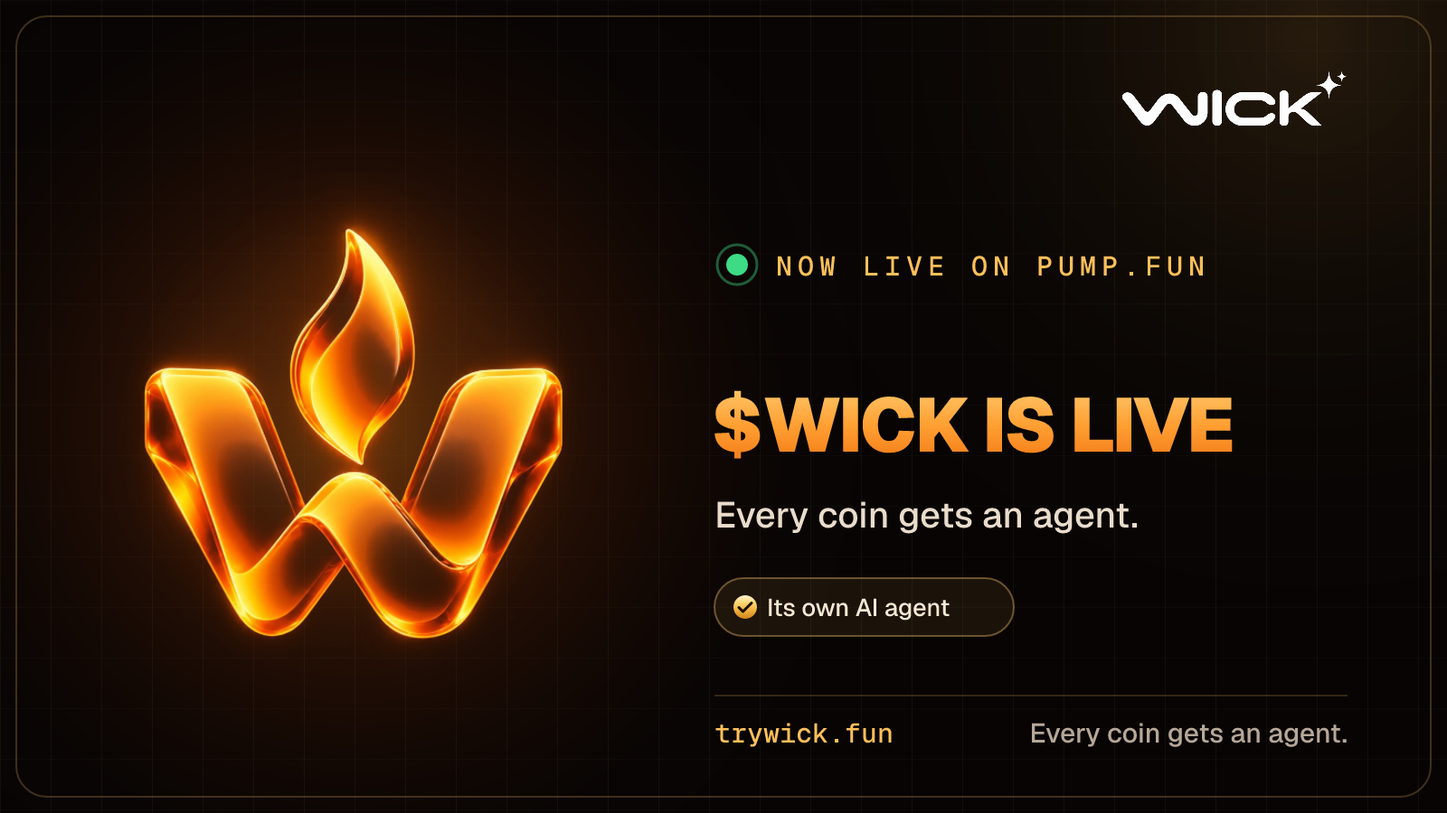
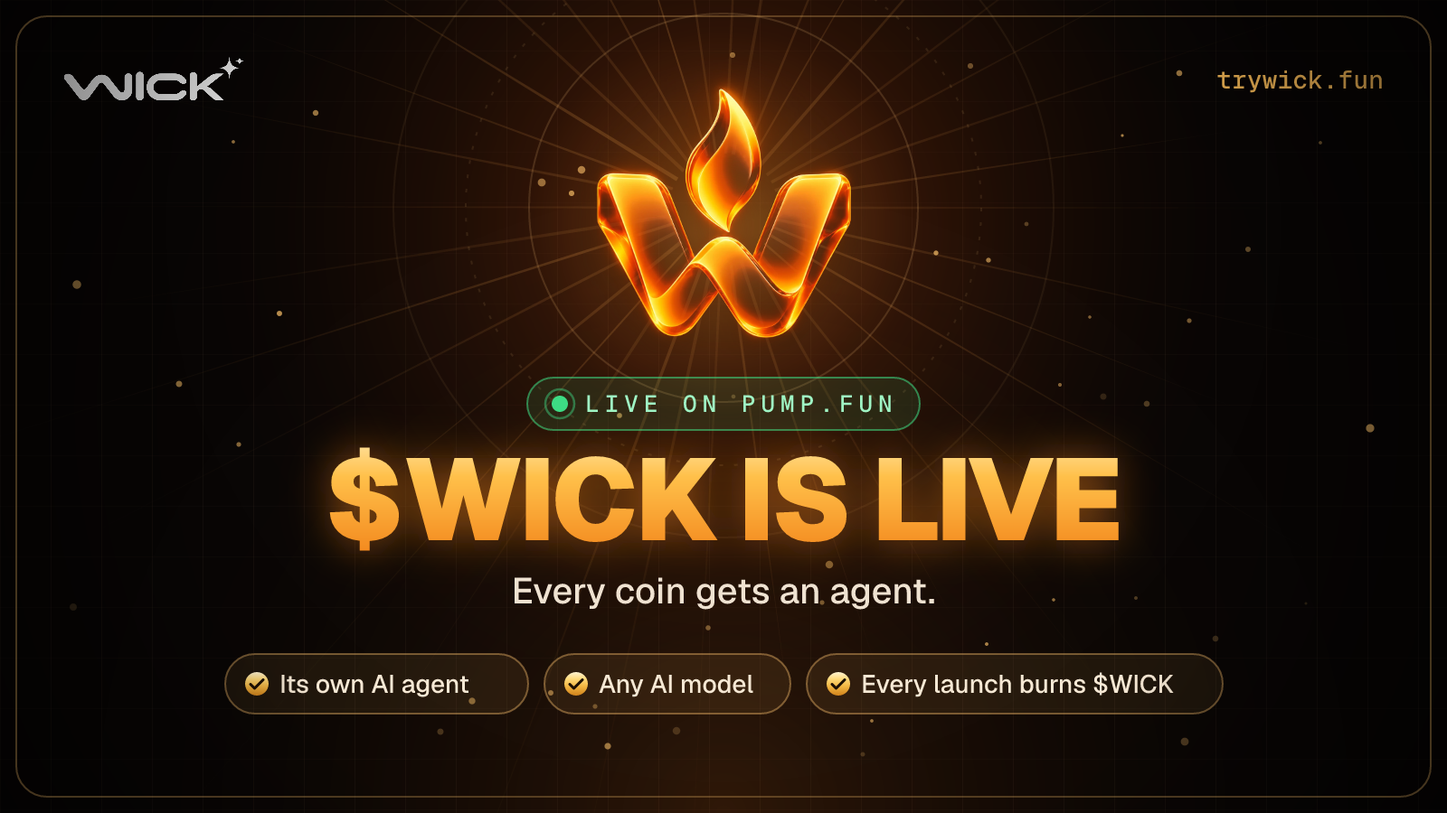
Launch night: step-by-step guide, new live card, no launch time in posts
- Launch guide rewritten: before the night, the night in order, the
  Streamflow lock step by step and the paid DEX Screener profile step by
  step, with clickable links, the CA with a copy button once live, and
  downloads (logo, DEX icon 512 x 512, DEX banner 1500 x 500).
- "$WICK is live" card: its own centered design (the W in its rays,
  the title on fire, the LIVE pill, three chips).
- The last post before launch never gives the time (no gift to
  snipers): "GET READY", fair launch, one CA.
- Buyback table in the admin: empty rounds hidden, clearer names. The
  home burn card no longer talks about candles.

Claude-Session: https://claude.ai/code/session_01TwTxr1NmwTvLVV7gv9auPC

diff --git a/public/admin.html b/public/admin.html
@@ -55,6 +55,7 @@
     .guide summary { display: block; cursor: pointer; list-style: none; } .guide summary::-webkit-details-marker { display: none; } .guide summary::marker { content: ""; } details.guide summary::before, details.guide[open] summary::before { content: none; }
     .guide summary h2 { justify-content: flex-start; margin: 0; } .guide summary h2::after { content: '▾'; margin-left: auto; color: var(--dim); } .guide:not([open]) summary h2::after { content: '▸'; }
     .guide-grid { display: grid; grid-template-columns: repeat(auto-fit, minmax(320px, 1fr)); gap: 8px 28px; margin-top: 6px; font-size: 13.5px; line-height: 1.55; }
+    .guide a { color: var(--gold); text-decoration: underline; text-underline-offset: 2px; } .guide .btn.small { height: 28px; padding: 0 10px; font-size: 12px; vertical-align: middle; } .guide-how { margin-top: 14px; padding-top: 6px; border-top: 1px solid var(--line-2); }
     .guide h3 { margin: 14px 0 6px; font-size: 14px; color: var(--gold); } .guide ul, .guide ol { margin: 0; padding-left: 20px; display: grid; gap: 6px; } .guide p { margin: 0 0 8px; }
     .checklist { list-style: none; margin: 0; padding: 0; display: grid; grid-template-columns: repeat(auto-fit, minmax(340px, 1fr)); gap: 8px; }
     .checklist li { display: flex; gap: 12px; align-items: flex-start; padding: 11px 12px; border-radius: 12px; border: 1px solid var(--line); background: rgba(255,220,180,.025); }
@@ -187,21 +188,56 @@
             </ul>
           </div>
           <div>
-            <h3>Le soir du lancement, dans l'ordre</h3>
+            <h3>Avant le soir J (une seule fois)</h3>
             <ol>
               <li><b>Test everything</b> (plus bas) : pas de rouge. L'orange n'empêche rien.</li>
-              <li><b>OpenRouter</b> (gratuit, rien à avancer) : crée un compte et une clé sur openrouter.ai (Keys), puis ajoute <b>OPENROUTER_API_KEY</b> (Secret) dans Cloudflare. Ça ouvre « Any model » et le fuel au lancement. Pas besoin de crédits : tant qu'il n'y en a pas, les agents tournent sur les IA gratuites, et le fuel des créateurs s'accumule sur ton wallet. Ensuite seulement, tu convertis ce fuel en crédits (Credits) : ce sont les créateurs qui paient, jamais toi.</li>
-              <li>Ouvre Phantom sur le <b>dev wallet</b> <span class="mono" id="g-dev2"></span>. Garde au moins <b>0,05 SOL</b> à côté du dev buy (frais + le lock).</li>
-              <li>Sur <b>pump.fun</b> → Create coin : nom <b>WICK</b>, ticker exactement <b id="g-tk">WICK</b>, ton logo, ta description, tes liens (X, Telegram, trywick.fun). Choisis ton dev buy, puis lance.</li>
-              <li><b>Dans la minute</b>, tout seul : le site détecte $WICK et passe en live, l'annonce part sur Telegram avec le CA et elle est épinglée. Regarde « Launch day » juste en dessous.</li>
-              <li><b>Post on X</b> (bouton dans « Launch day ») : ton post est écrit, avec le CA. Publie-le, puis épingle-le sur ton profil.</li>
-              <li><b>Lock</b> : sur app.streamflow.finance → Token Lock, depuis le dev wallet, verrouille tes $WICK (montant, date), copie le lien du contrat, puis remplis « Tokens locked » (plus bas) → <b>Post</b>. Il part sur Telegram (et X) et s'affiche sur la page Proof.</li>
-              <li>Fais ta pub avec <b>un seul CA</b> : celui affiché ici. Invite les gens à lancer leur coin sur trywick.fun.</li>
+              <li><b>Clé OpenRouter</b> (gratuite, rien à payer) : sur <a href="https://openrouter.ai" target="_blank" rel="noopener">openrouter.ai</a> → <b>API Keys</b> → <b>Create Key</b>, copie-la. Puis <a href="https://dash.cloudflare.com" target="_blank" rel="noopener">Cloudflare</a> → Workers &amp; Pages → <b>wick</b> → Settings → <b>Variables and Secrets</b> → Add : type <b>Secret</b>, nom <b>OPENROUTER_API_KEY</b>, colle, <b>Deploy</b>. Pas de crédits à acheter : les créateurs paient avec leur fuel.</li>
+              <li><b>Phantom</b> sur le <b>dev wallet</b> <span class="mono" id="g-dev2"></span> : ton dev buy + au moins <b>0,05 SOL</b> en plus (frais pump.fun, puis le lock Streamflow).</li>
+              <li>Prépare sur ton ordi : le logo (<a href="/brand/logo.png" download="wick-logo.png">télécharger le logo</a>), la description, et tes liens X + Telegram + trywick.fun.</li>
+            </ol>
+            <h3>Le soir du lancement, dans l'ordre</h3>
+            <ol>
+              <li>Publie les posts « avant » (plus bas, de H-3 à H-30 min). <b>Ne donne jamais l'heure exacte</b> : les snipers attendent ça.</li>
+              <li>Ouvre <a href="https://pump.fun/create" target="_blank" rel="noopener">pump.fun → Create coin</a>, connecte Phantom (le <b>dev wallet</b>). Nom <b>WICK</b>, ticker exactement <b id="g-tk">WICK</b>, le logo, la description, les liens. Choisis ton dev buy → <b>Create</b> → signe dans Phantom.</li>
+              <li><b>Dans la minute, tout seul</b> : le site voit $WICK, passe en live, et l'annonce part sur Telegram avec le CA (épinglée). Vérifie « Launch day » juste en dessous. CA : <span class="g-ca"></span></li>
+              <li><b>Sur X</b> : dans les posts, carte « $WICK is live » → bouton X : le texte est prêt avec le CA. Publie, puis <b>épingle</b>-le.</li>
+              <li><b>Le lock</b> (pas à pas juste en dessous), puis la carte « Tokens locked » → Post.</li>
+              <li>Ensuite : partage un seul CA, celui d'ici, et invite les gens à lancer leur coin sur trywick.fun.</li>
+            </ol>
+          </div>
+        </div>
+        <div class="guide-grid guide-how">
+          <div>
+            <h3>Le lock sur Streamflow, pas à pas</h3>
+            <p>Bloquer une partie de tes $WICK montre que tu ne vends pas. Ça se fait <b>après</b> le lancement, depuis le dev wallet.</p>
+            <ol>
+              <li>Ouvre <a href="https://app.streamflow.finance" target="_blank" rel="noopener">app.streamflow.finance</a> → <b>Connect wallet</b> → Phantom (le dev wallet). Réseau : Solana mainnet.</li>
+              <li>Menu <b>Token Lock</b> → <b>Create lock</b> (le nom exact du bouton peut varier).</li>
+              <li><b>Token</b> : colle le CA de $WICK <span class="g-ca"></span></li>
+              <li><b>Montant</b> : ce que tu bloques (par exemple tout ton dev buy). Ton solde $WICK est visible dans Phantom.</li>
+              <li><b>Date de déblocage</b> : par exemple dans 3 ou 6 mois. <b>Destinataire</b> : ton propre dev wallet (les tokens te reviennent à cette date).</li>
+              <li><b>Annulation</b> : personne (désactive « cancelable » et « transferable »). C'est ce qui rend le lock crédible.</li>
+              <li>Vérifie les frais affichés par Streamflow, puis <b>Create</b> → signe dans Phantom.</li>
+              <li>Sur la page du contrat, <b>copie le lien</b> (il commence par <span class="mono">app.streamflow.finance/contract/…</span>).</li>
+              <li>Ici, carte <b>« Tokens locked »</b> (dans les posts, plus bas) : montant, date, lien → <b>Dessiner la carte</b> → <b>Post</b>. Ça part sur X et Telegram et s'affiche sur la page Proof.</li>
+            </ol>
+          </div>
+          <div>
+            <h3>DEX Screener payé (optionnel), pas à pas</h3>
+            <p>Pas obligatoire pour lancer. C'est payant (le prix s'affiche chez DEX Screener avant de payer) : à faire seulement si tu veux le badge et le profil complet.</p>
+            <ol>
+              <li>Attends que $WICK apparaisse sur DEX Screener (quelques minutes après le lancement) : <span class="g-dex"></span></li>
+              <li>Ouvre <a href="https://marketplace.dexscreener.com/product/token-info" target="_blank" rel="noopener">DEX Screener → Enhanced Token Info</a>. Chaîne <b>Solana</b>, colle le CA <span class="g-ca"></span></li>
+              <li><b>Icône</b> : <a href="/cards/dex-icon.png" download="wick-dex-icon.png">télécharger l'icône</a> (512 × 512). <b>Bannière</b> : <a href="/cards/dex-banner.png" download="wick-dex-banner.png">télécharger la bannière</a> (1500 × 500).</li>
+              <li><b>Description</b> : <button class="btn small" type="button" data-copy="WICK is a launchpad on Solana where every coin gets its own AI agent. Launch a coin on pump.fun from trywick.fun: its agent talks to holders, posts for the coin and burns its supply. Every launch burns $WICK.">Copier la description</button></li>
+              <li><b>Liens</b> : site <span class="mono">https://trywick.fun</span>, ton X, ton Telegram.</li>
+              <li>Paie et valide. DEX Screener vérifie, puis le profil passe en ligne.</li>
+              <li><b>Rien d'autre à faire</b> : le site voit le profil payé et poste tout seul la carte « DEX PAID » sur Telegram (et X si ses clés sont réglées). Sinon, bouton « DEX payé » dans les posts.</li>
             </ol>
             <h3>Ensuite, tout seul</h3>
-            <p>Un post Telegram pour chaque nouveau coin (et sur X si ses clés sont réglées, sinon un bouton « Post on X » par coin dans « Latest launches »). Un buyback + burn de $WICK toutes les 30 minutes au plus. Les paliers de market cap et le DEX payé sont postés avec leur carte.</p>
+            <p>Un post Telegram pour chaque nouveau coin. Un buyback + burn de $WICK toutes les 30 minutes au plus. Les paliers de market cap sont postés avec leur carte.</p>
             <h3>En cas de souci</h3>
-            <p><b>Pause buyback</b> (en haut) arrête les achats tout de suite. Chaque carte a <b>Post now</b>, <b>Copy X text</b> et <b>Open X</b> pour poster à la main. Jamais : partager une clé privée ou la phrase secrète, changer le ticker, lancer depuis un autre wallet.</p>
+            <p><b>Pause buyback</b> (en haut) arrête les achats tout de suite. Jamais : partager une clé privée ou la phrase secrète, changer le ticker, lancer depuis un autre wallet.</p>
           </div>
         </div>
       </details>
@@ -266,9 +302,9 @@
       </div>
 
       <div class="card">
-        <h2>Breaths <small>the 30-minute buyback cycles</small></h2>
+        <h2>Buybacks of $WICK <small>every 30 minutes, the pot buys $WICK and burns it. Empty rounds are hidden</small></h2>
         <div class="scroll"><table>
-          <thead><tr><th>#</th><th>Ended</th><th>Launches</th><th>Status</th><th>Bought</th><th>Burned</th></tr></thead>
+          <thead><tr><th>#</th><th>Ended</th><th>Launches</th><th>Status</th><th>SOL used</th><th>$WICK burned</th></tr></thead>
           <tbody id="cycles"></tbody>
         </table></div>
       </div>
@@ -415,6 +451,8 @@
       // Le guide : le dev wallet et le ticker.
       $('g-dev').textContent = $('g-dev2').textContent = c.deployer ? short(c.deployer) : '';
       $('g-tk').textContent = c.ticker;
+      document.querySelectorAll('.g-ca').forEach((el) => { el.innerHTML = mint ? `<span class="mono">${esc(short(mint))}</span> <button class="btn small" type="button" data-copy="${esc(mint)}">Copy CA</button>` : '<i class="dim">(il s\'affiche ici dès que $WICK est lancé)</i>'; });
+      document.querySelectorAll('.g-dex').forEach((el) => { el.innerHTML = mint ? `<a href="https://dexscreener.com/solana/${esc(mint)}" target="_blank" rel="noopener">voir $${esc(c.ticker)} sur DEX Screener</a>` : '<i class="dim">(le lien s\'affiche ici après le lancement)</i>'; });
 
       // Launch day
       const S = steps(d);
@@ -552,7 +590,7 @@
         <td>${r.mcap ? usd(r.mcap) : '—'}</td></tr>`).join('') : '<tr><td colspan="8" class="dim">No launch yet.</td></tr>';
 
       const NOTES = { not_live: 'WICK not live yet', paused: 'buyback paused', empty_pot: 'pot too small, carried over', nothing_bought: 'nothing bought', burn_failed: 'burn failed' };
-      const STATUS = { queued: ['queued', 'work'], buying: ['buying…', 'work'], bought: ['bought, burning next', 'work'], burning_tx: ['burning…', 'work'], burned: ['burned', 'ok'], skipped: ['skipped', ''], failed: ['failed', 'bad'], ended: ['waiting', 'work'], burning: ['now', 'ok'] };
+      const STATUS = { queued: ['queued', 'work'], buying: ['buying…', 'work'], bought: ['bought, burning next', 'work'], burning_tx: ['burning…', 'work'], burned: ['burned', 'ok'], skipped: ['nothing to buy', ''], failed: ['failed', 'bad'], ended: ['waiting', 'work'], burning: ['now', 'ok'] };
       const status = (s, note) => `${pill(...(STATUS[s] || [s]))}${note ? ` <small class="dim">${esc(NOTES[note] || note)}</small>` : ''}`;
       $('burns').innerHTML = d.burns.length ? d.burns.map((b) => `<tr>
         <td>${b.id}</td><td>${b.kind === 'candle' ? `Buyback · breath #${esc(b.ref)}` : b.kind === 'coin' ? `Its own candle · $${esc(b.symbol || '?')}` : `Ignition Fee · $${esc(b.symbol || '?')}`}</td>
@@ -560,7 +598,10 @@
         <td>${b.sol != null ? `${num(b.sol)} ${tx(b.buy_sig, '↗')}` : ''}</td>
         <td>${b.burned_ui != null ? `<b>${num(b.burned_ui, 0)}</b>${b.kind === 'coin' ? ` <small class="dim">$${esc(b.symbol || '?')}</small>` : ''} ${tx(b.burn_sig, '↗')}` : tx(b.burn_sig, 'pending ↗')}</td>
         <td>${ago(b.created_at)}</td></tr>`).join('') : '<tr><td colspan="6" class="dim">No burn yet.</td></tr>';
-      $('cycles').innerHTML = d.cycles.map((r) => `<tr>
+      // Seuls les tours où il s'est passé quelque chose (un lancement, un achat, un burn, une erreur).
+      const rounds = d.cycles.filter((r) => !r.ended_at || r.matches > 0 || r.buy_sol != null || r.burned_ui != null || r.status === 'failed');
+      const none = rounds.some((r) => r.buy_sol != null) ? '' : '<tr><td colspan="6" class="dim">No buyback yet: they start once $WICK is live and the pot has SOL.</td></tr>';
+      $('cycles').innerHTML = none + rounds.map((r) => `<tr>
         <td>${r.id}</td><td>${r.ended_at ? ago(r.ended_at) : '<span class="ok">now</span>'}</td><td>${r.matches}</td>
         <td>${status(r.status, r.note)}</td>
         <td>${r.buy_sol != null ? `${num(r.buy_sol)} SOL ${tx(r.buy_sig, '↗')}` : ''}</td>

diff --git a/lib/cards.js b/lib/cards.js
@@ -71,9 +71,93 @@ function content(kind, d) {
   }
 }
 
+// La carte du lancement de $WICK : sa propre mise en page, centrée, la plus forte de toutes
+// (le W en grand dans ses rayons, le titre en feu, la pastille LIVE).
+function liveSvg(d, assets) {
+  const t = `$${d.ticker || 'WICK'}`;
+  const title = `${t} IS LIVE`;
+  const size = fit(title, 128, 1300);
+  // Les rayons : de fines pointes autour du W, plus ou moins longues.
+  let seed = 11;
+  const rnd = () => (seed = (seed * 16807) % 2147483647) / 2147483647;
+  const rays = Array.from({ length: 36 }, (_, i) => {
+    const a = (i / 36) * Math.PI * 2 + rnd() * 0.05, w = 0.018 + rnd() * 0.02, r = 520 + rnd() * 380;
+    const p = (ang, rad) => `${(800 + Math.cos(ang) * rad).toFixed(1)},${(230 + Math.sin(ang) * rad).toFixed(1)}`;
+    return `<polygon points="${p(a - w, 60)} ${p(a, r)} ${p(a + w, 60)}" fill="url(#ray)" opacity="${(0.35 + rnd() * 0.5).toFixed(2)}"/>`;
+  }).join('');
+  const embers = Array.from({ length: 46 }, () => {
+    const x = 60 + rnd() * 1480, y = 60 + rnd() * 780, r = 1.5 + rnd() * 3.2;
+    return `<circle cx="${x.toFixed(0)}" cy="${y.toFixed(0)}" r="${r.toFixed(1)}" fill="#ffc46b" opacity="${(0.15 + rnd() * 0.55).toFixed(2)}"/>`;
+  }).join('');
+  // Les pastilles du bas, centrées (largeur estimée : Geist Medium ≈ 0,56 em).
+  const labels = ['Its own AI agent', 'Any AI model', `Every launch burns ${t}`];
+  const ws = labels.map((l) => Math.round(l.length * 28 * 0.56 + 84));
+  let cx = 800 - (ws.reduce((a, b) => a + b, 0) + 18 * (ws.length - 1)) / 2;
+  const chips = labels.map((label, i) => {
+    const g = `<g transform="translate(${cx.toFixed(0)} 724)">
+      <rect width="${ws[i]}" height="66" rx="33" fill="rgba(255,190,90,0.08)" stroke="rgba(255,196,110,0.4)" stroke-width="2"/>
+      <circle cx="35" cy="33" r="13" fill="url(#gold)"/>
+      <path d="${CHECK}" transform="translate(23 21)" fill="none" stroke="#1d1003" stroke-width="3" stroke-linecap="round" stroke-linejoin="round"/>
+      <text x="60" y="43" font-family="Geist" font-weight="500" font-size="28" fill="#f6e8d4">${esc(label)}</text></g>`;
+    cx += ws[i] + 18;
+    return g;
+  }).join('');
+  const pill = 'LIVE ON PUMP.FUN', pw = Math.round(64 + pill.length * (26 * 0.6 + 6) + 24);
+  return `<svg xmlns="http://www.w3.org/2000/svg" xmlns:xlink="http://www.w3.org/1999/xlink" width="${W}" height="${H}" viewBox="0 0 ${W} ${H}">
+  <defs>
+    <radialGradient id="core" cx="800" cy="250" r="620" gradientUnits="userSpaceOnUse">
+      <stop offset="0" stop-color="#ff9a2e" stop-opacity="0.55"/><stop offset="0.35" stop-color="#c2470b" stop-opacity="0.2"/><stop offset="1" stop-color="#070403" stop-opacity="0"/>
+    </radialGradient>
+    <radialGradient id="floor" cx="800" cy="900" r="700" gradientUnits="userSpaceOnUse">
+      <stop offset="0" stop-color="#ff7a1a" stop-opacity="0.16"/><stop offset="1" stop-color="#070403" stop-opacity="0"/>
+    </radialGradient>
+    <radialGradient id="ray" cx="800" cy="230" r="900" gradientUnits="userSpaceOnUse">
+      <stop offset="0" stop-color="#ffd27a" stop-opacity="0.32"/><stop offset="0.6" stop-color="#ff9a2e" stop-opacity="0.06"/><stop offset="1" stop-color="#ff9a2e" stop-opacity="0"/>
+    </radialGradient>
+    <radialGradient id="vig" cx="800" cy="450" r="980" gradientUnits="userSpaceOnUse">
+      <stop offset="0.55" stop-color="#000" stop-opacity="0"/><stop offset="1" stop-color="#000" stop-opacity="0.7"/>
+    </radialGradient>
+    <linearGradient id="gold" x1="0" y1="0" x2="0" y2="1">
+      <stop offset="0" stop-color="#fff4d2"/><stop offset="0.3" stop-color="#ffd978"/><stop offset="0.62" stop-color="#f1b440"/><stop offset="1" stop-color="#d0821c"/>
+    </linearGradient>
+    <linearGradient id="fire" x1="0" y1="0" x2="0" y2="1">
+      <stop offset="0" stop-color="#fff0c2"/><stop offset="0.35" stop-color="#ffc04a"/><stop offset="1" stop-color="#f07a12"/>
+    </linearGradient>
+    <filter id="blur" x="-20%" y="-50%" width="140%" height="200%"><feGaussianBlur stdDeviation="22"/></filter>
+    <pattern id="grid" width="56" height="56" patternUnits="userSpaceOnUse">
+      <path d="M56 0H0V56" fill="none" stroke="rgba(255,200,150,0.04)" stroke-width="1"/>
+    </pattern>
+  </defs>
+  <rect width="${W}" height="${H}" fill="#070403"/>
+  <rect width="${W}" height="${H}" fill="url(#grid)"/>
+  ${rays}
+  <rect width="${W}" height="${H}" fill="url(#core)"/>
+  <rect width="${W}" height="${H}" fill="url(#floor)"/>
+  <circle cx="800" cy="230" r="215" fill="none" stroke="rgba(255,200,120,0.16)" stroke-width="2"/>
+  <circle cx="800" cy="230" r="285" fill="none" stroke="rgba(255,200,120,0.1)" stroke-width="2" stroke-dasharray="4 12"/>
+  <circle cx="800" cy="230" r="365" fill="none" stroke="rgba(255,200,120,0.06)" stroke-width="2"/>
+  ${embers}
+  ${assets.logo ? `<image x="630" y="60" width="340" height="340" xlink:href="${assets.logo}" href="${assets.logo}"/>` : ''}
+  <g transform="translate(${800 - pw / 2} 418)">
+    <rect width="${pw}" height="58" rx="29" fill="rgba(61,220,132,0.1)" stroke="rgba(61,220,132,0.55)" stroke-width="2"/>
+    <circle cx="36" cy="29" r="9" fill="#3ddc84"/><circle cx="36" cy="29" r="16" fill="none" stroke="rgba(61,220,132,0.45)" stroke-width="2.5"/>
+    <text x="64" y="38" font-family="Geist Mono" font-weight="500" font-size="26" letter-spacing="6" fill="#9ff5c4">${pill}</text>
+  </g>
+  <text x="800" y="598" text-anchor="middle" font-family="Geist" font-weight="900" font-size="${size}" letter-spacing="-3" fill="#ff8a1c" opacity="0.55" filter="url(#blur)">${esc(title)}</text>
+  <text x="800" y="598" text-anchor="middle" font-family="Geist" font-weight="900" font-size="${size}" letter-spacing="-3" fill="url(#fire)">${esc(title)}</text>
+  <text x="800" y="668" text-anchor="middle" font-family="Geist" font-weight="500" font-size="40" fill="#efe2d1">Every coin gets an agent.</text>
+  ${chips}
+  ${assets.wordmark ? `<image x="70" y="62" width="200" height="50" xlink:href="${assets.wordmark}" href="${assets.wordmark}"/>` : ''}
+  <text x="${W - 70}" y="98" text-anchor="end" font-family="Geist Mono" font-weight="500" font-size="28" fill="#ffc05a">trywick.fun</text>
+  <rect width="${W}" height="${H}" fill="url(#vig)"/>
+  <rect x="18" y="18" width="${W - 36}" height="${H - 36}" rx="34" fill="none" stroke="rgba(255,196,110,0.26)" stroke-width="2"/>
+</svg>`;
+}
+
 export function cardSvg(kind, data = {}, assets = {}) {
   // Les posts de la bibliothèque ont chacun leur mise en page (lib/postcards.js).
   if (kind === 'post' && hasPostLayout(data.id)) return postSvg(data.id, data, assets);
+  if (kind === 'live') return liveSvg(data, assets);
   const c = content(kind, data);
   const X = 790, RIGHT = W - 110, width = RIGHT - X;
   const size = fit(c.title, 168, width);
@@ -142,5 +226,44 @@ export function cardSvg(kind, data = {}, assets = {}) {
   <line x1="${X}" y1="770" x2="${RIGHT}" y2="770" stroke="rgba(255,196,110,0.18)" stroke-width="2"/>
   <text x="${X}" y="822" font-family="Geist Mono" font-weight="500" font-size="30" fill="#ffc05a">trywick.fun</text>
   <text x="${RIGHT}" y="822" text-anchor="end" font-family="Geist" font-weight="500" font-size="30" fill="#b6a797">Every coin gets an agent.</text>
+</svg>`;
+}
+
+// Le profil DEX Screener (si l'équipe le paie) : sa bannière (3:1) et son icône (carrée).
+export function dexBannerSvg(assets = {}, ticker = 'WICK') {
+  const BW = 1500, BH = 500;
+  return `<svg xmlns="http://www.w3.org/2000/svg" xmlns:xlink="http://www.w3.org/1999/xlink" width="${BW}" height="${BH}" viewBox="0 0 ${BW} ${BH}">
+  <defs>
+    <radialGradient id="g1" cx="330" cy="250" r="520" gradientUnits="userSpaceOnUse">
+      <stop offset="0" stop-color="#ff9a2e" stop-opacity="0.5"/><stop offset="0.4" stop-color="#c2470b" stop-opacity="0.16"/><stop offset="1" stop-color="#070403" stop-opacity="0"/>
+    </radialGradient>
+    <radialGradient id="g2" cx="1300" cy="0" r="600" gradientUnits="userSpaceOnUse">
+      <stop offset="0" stop-color="#ffb347" stop-opacity="0.12"/><stop offset="1" stop-color="#070403" stop-opacity="0"/>
+    </radialGradient>
+    <linearGradient id="fire" x1="0" y1="0" x2="0" y2="1">
+      <stop offset="0" stop-color="#fff0c2"/><stop offset="0.35" stop-color="#ffc04a"/><stop offset="1" stop-color="#f07a12"/>
+    </linearGradient>
+    <pattern id="grid" width="50" height="50" patternUnits="userSpaceOnUse"><path d="M50 0H0V50" fill="none" stroke="rgba(255,200,150,0.045)" stroke-width="1"/></pattern>
+  </defs>
+  <rect width="${BW}" height="${BH}" fill="#070403"/>
+  <rect width="${BW}" height="${BH}" fill="url(#grid)"/>
+  <rect width="${BW}" height="${BH}" fill="url(#g1)"/>
+  <rect width="${BW}" height="${BH}" fill="url(#g2)"/>
+  <circle cx="330" cy="250" r="190" fill="none" stroke="rgba(255,200,120,0.14)" stroke-width="2"/>
+  <circle cx="330" cy="250" r="245" fill="none" stroke="rgba(255,200,120,0.08)" stroke-width="2" stroke-dasharray="4 12"/>
+  ${assets.logo ? `<image x="175" y="95" width="310" height="310" xlink:href="${assets.logo}" href="${assets.logo}"/>` : ''}
+  <text x="600" y="215" font-family="Geist" font-weight="900" font-size="92" letter-spacing="-3" fill="#fbf3ea">Every coin gets</text>
+  <text x="600" y="310" font-family="Geist" font-weight="900" font-size="92" letter-spacing="-3" fill="url(#fire)">an agent.</text>
+  <text x="604" y="372" font-family="Geist" font-weight="500" font-size="27" fill="#d9cab7">Launch on pump.fun · any AI model · every launch burns $${esc(ticker)}</text>
+  <text x="604" y="425" font-family="Geist Mono" font-weight="500" font-size="28" fill="#ffc05a">trywick.fun</text>
+</svg>`;
+}
+export function dexIconSvg(assets = {}) {
+  return `<svg xmlns="http://www.w3.org/2000/svg" xmlns:xlink="http://www.w3.org/1999/xlink" width="512" height="512" viewBox="0 0 512 512">
+  <defs><radialGradient id="g" cx="256" cy="270" r="300" gradientUnits="userSpaceOnUse">
+    <stop offset="0" stop-color="#ff9a2e" stop-opacity="0.45"/><stop offset="0.5" stop-color="#b8420a" stop-opacity="0.15"/><stop offset="1" stop-color="#070403" stop-opacity="0"/>
+  </radialGradient></defs>
+  <rect width="512" height="512" fill="#070403"/><rect width="512" height="512" fill="url(#g)"/>
+  ${assets.logo ? `<image x="56" y="56" width="400" height="400" xlink:href="${assets.logo}" href="${assets.logo}"/>` : ''}
 </svg>`;
 }

diff --git a/src/client/app.js b/src/client/app.js
@@ -128,22 +128,22 @@ function renderMeter() {
   const off = span(b.matchMs);
   const fee = world.launch?.feeSol || 0;
   const tk = `$${world.token?.ticker || 'WICK'}`;
-  $('candle-no').textContent = `#${pad(c.number)}`;
-  $('candle-melt').textContent = `${Math.floor(c.melted * 100)}% melted`;
-  $('bar').style.width = `${(c.melted * 100).toFixed(2)}%`;
+  // La barre : le temps jusqu'au prochain buyback.
+  $('candle-melt').textContent = live ? 'Buyback every 30 min' : world.buyback.paused ? 'Paused' : 'Starts at launch';
+  $('bar').style.width = `${live && b.durationMs ? (Math.min(1, 1 - p.remaining / b.durationMs) * 100).toFixed(2) : 0}%`;
   $('supply-pct').textContent = pct(c.burnedPct);
   $('supply-label').textContent = `of the ${tk} supply burned forever`;
   $('count-label').textContent = p.remaining > 0
-    ? (live ? 'Next buyback in' : world.buyback.paused ? 'Buybacks paused · next breath in' : 'Next breath in')
-    : (live ? `Buying back ${tk}…` : 'Breathing…');
+    ? (live ? 'Next buyback in' : world.buyback.paused ? 'Buybacks paused · next round in' : 'Next round in')
+    : (live ? `Buying back ${tk}…` : 'Next round…');
   $('countdown').textContent = clockText(p.remaining);
   $('countdown').classList.toggle('hot', p.remaining < 60_000);
   const from = world.launch?.shareBps && world.launch.sharedFeeSol != null ? world.launch.sharedFeeSol : fee;
   $('meter-sub').innerHTML = live
     ? `Every launch removes <b>${esc(tk)}</b> from circulation and brings the buyback <b>${off}</b> closer.`
     : world.buyback.paused
-      ? 'Buybacks are paused for now. The candle waits.'
-      : `The candle starts melting once ${esc(tk)} is live.`;
+      ? 'Buybacks are paused for now.'
+      : `Buybacks of ${esc(tk)} start once it is live.`;
   $('cta-sub').innerHTML = fee
     ? `Launch a coin. Give it an AI agent. Let it burn. · <b>Ignition Fee ${from < fee ? `from ${from}` : fee} SOL</b>, ${world.launch.teamSol ? 'half of it burns' : 'burns'} ${esc(tk)}`
     : 'Launch a coin. Give it an AI agent. Let it burn.';

diff --git a/lib/postcards.js b/lib/postcards.js
@@ -172,15 +172,15 @@ const LAYOUTS = {
       ${footer('night', 'Hundreds of models. Paid by the coin.')}`);
   },
 
-  // Le dernier appel : la braise, un mot énorme.
+  // Avant le lancement : la braise, un mot énorme. Jamais l'heure (pas de cadeau aux snipers).
   lastcall: (d, a) => {
     const t = `$${d.ticker || 'WICK'}`;
     return svg('ember', `
       ${a.wordmark ? `<image x="${R - 250}" y="78" width="250" height="62" xlink:href="${a.wordmark}" href="${a.wordmark}"/>` : brand('ember', a)}
-      ${eyebrow('ember', L, 200, 'LAUNCH DAY')}
-      ${text(L - 10, 455, 230, 900, '#1a0b03', 'LAST CALL.', 'letter-spacing="-7"')}
-      ${text(L, 560, 56, 700, '#1a0b03', `${t} launches on pump.fun in 30 minutes.`)}
-      ${text(L, 630, 36, 500, 'rgba(26,11,3,0.78)', 'One CA. Posted here, pinned on Telegram. Ignore the rest.')}
+      ${eyebrow('ember', L, 200, 'FAIR LAUNCH')}
+      ${text(L - 10, 455, 220, 900, '#1a0b03', 'GET READY.', 'letter-spacing="-7"')}
+      ${text(L, 560, 56, 700, '#1a0b03', `${t} is coming to pump.fun.`)}
+      ${text(L, 630, 36, 500, 'rgba(26,11,3,0.78)', 'No presale. One CA, posted here, pinned on Telegram.')}
       ${footer('ember', 'Every coin gets an agent.')}`);
   },
 

diff --git a/lib/posts.js b/lib/posts.js
@@ -38,9 +38,9 @@ export const LIBRARY = [
     text: 'every agent on WICK picks its mind: any of hundreds of AI models.\n\nClaude · GPT · Gemini · Grok · DeepSeek · Qwen · Kimi · GLM · Mistral · MiniMax\n\npaid by the coin itself: its fuel at launch, then its own fees.\n{site}/#models',
   },
   {
-    id: 'lastcall', slot: 'H-30 min', phase: 'before', label: 'Dernier appel',
-    when: 'Juste avant de lancer : le seul CA sera posté ici et épinglé sur Telegram.',
-    text: '${ticker} launches on pump.fun in 30 minutes.\n\nthe only CA will be posted here and pinned on telegram. ignore everything else.\n\nturn on notifications.\n{site}',
+    id: 'lastcall', slot: 'H-30 min', phase: 'before', label: 'Tenez-vous prêts',
+    when: "Juste avant de lancer, sans jamais donner l'heure (sinon les snipers se préparent) : le seul CA sera posté ici et épinglé sur Telegram.",
+    text: '${ticker} is coming to pump.fun.\n\nfair launch: no presale, no whitelist.\nthe only CA will be posted here and pinned on telegram. ignore everything else.\n\nturn on notifications.\n{site}',
   },
   // ---------------------------------------------------------------- après le lancement
   {

diff --git a/public/index.html b/public/index.html
@@ -114,8 +114,8 @@
         <a class="linkish" href="#proof" data-go="proof">Verify every burn on the Proof page →</a>
       </div>
       <div class="candle-card" id="candle-card">
-        <p class="eyebrow"><span>Candle <b id="candle-no">#001</b></span><span id="candle-melt">0% melted</span></p>
-        <div class="bar" title="One candle = 0.5% of the $WICK supply"><i id="bar"></i></div>
+        <p class="eyebrow"><span><span data-t="ticker">$WICK</span> burn tracker</span><span id="candle-melt">Every 30 min</span></p>
+        <div class="bar" title="Time to the next buyback"><i id="bar"></i></div>
         <p class="supply"><strong id="supply-pct">0%</strong> <span id="supply-label">of the $WICK supply burned forever</span></p>
         <p class="count-line"><span id="count-label">Next buyback in</span> <strong id="countdown">30:00</strong></p>
         <p class="meter-sub" id="meter-sub">&nbsp;</p>
